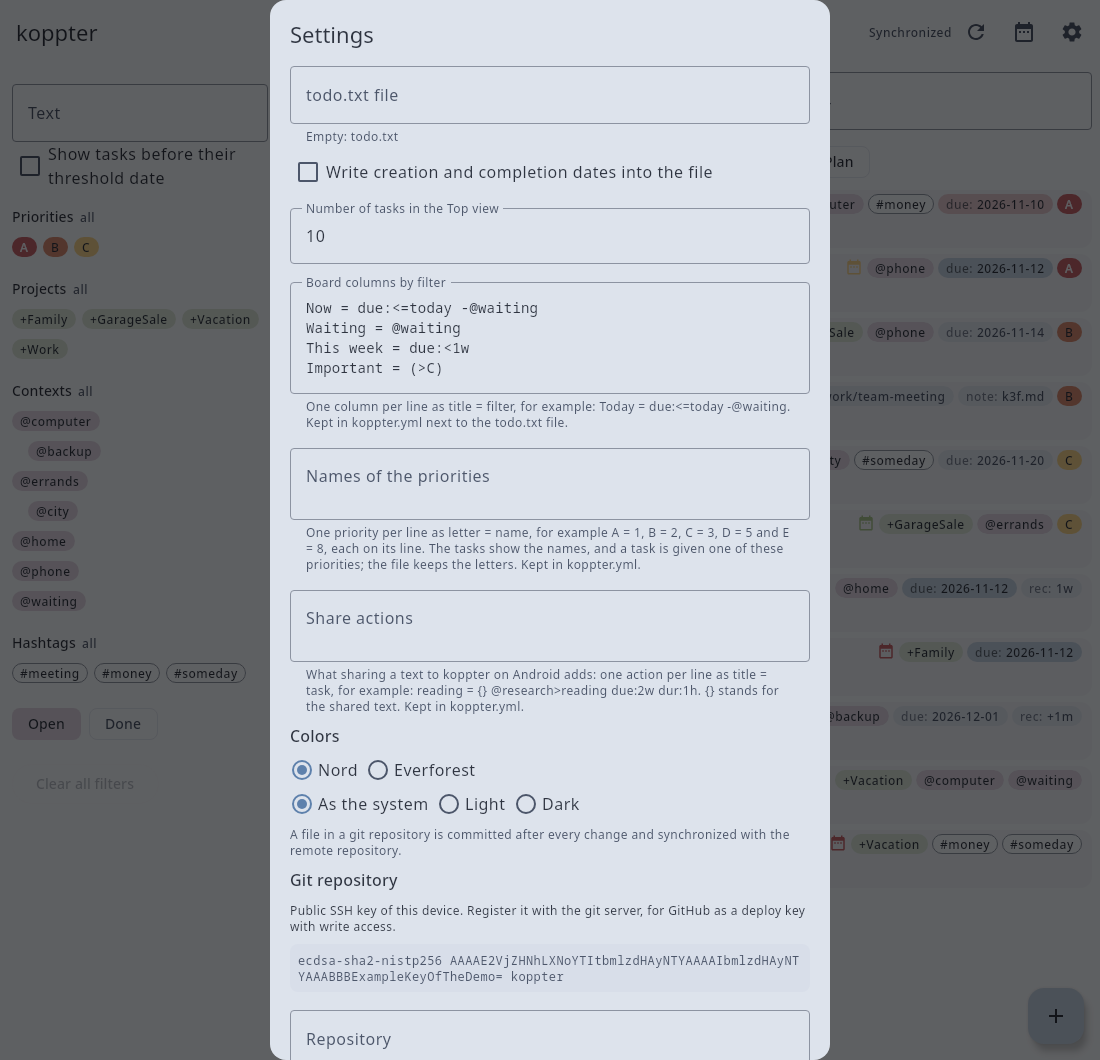
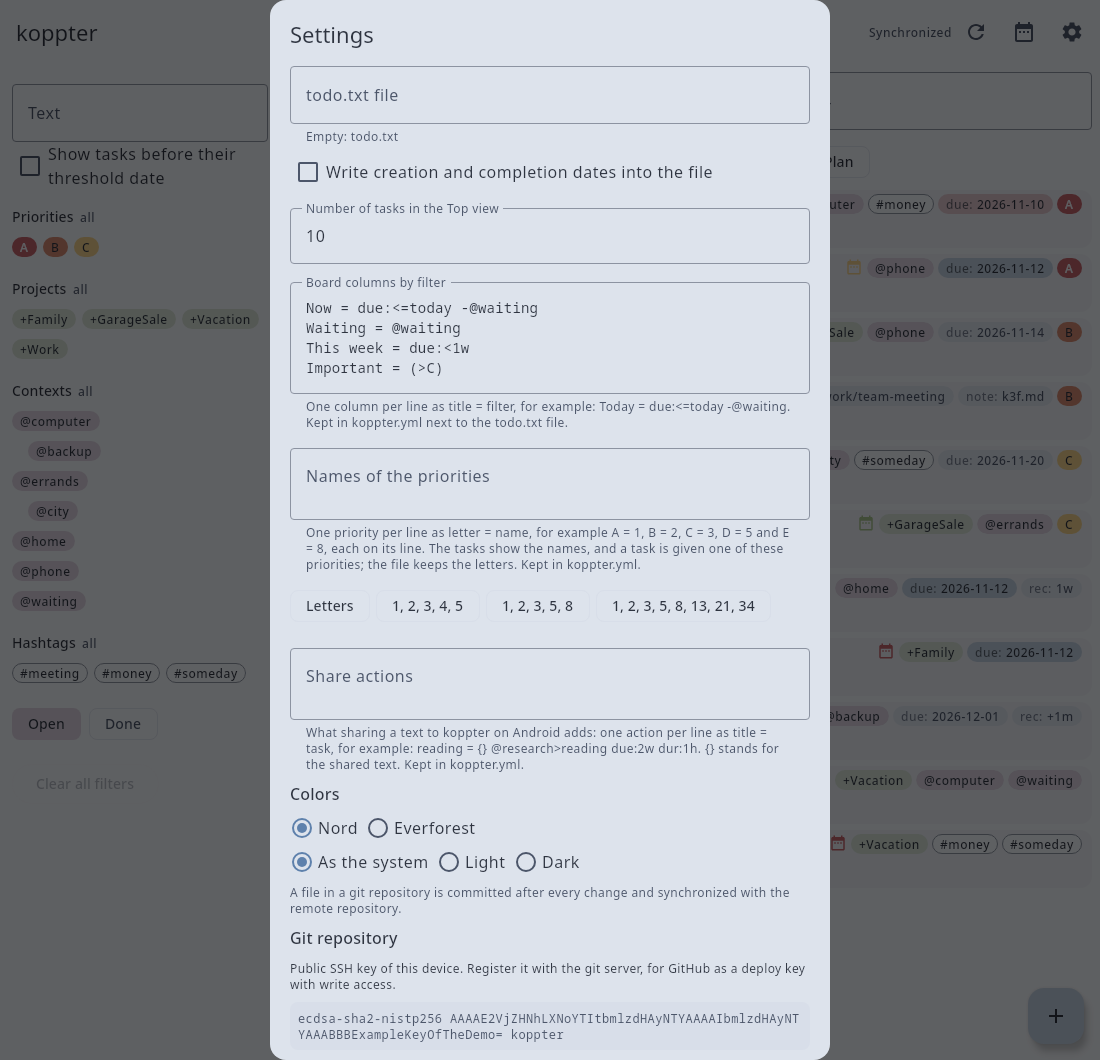
Offer scales for the priority names and accept names in filters
The settings fill in the names of the priorities at a click: letters, 1 to 5, or five or eight steps of the Fibonacci sequence.
A filter of a board column names a priority by its name or by its letter, so that a user of numbers does not have to translate there.

diff --git a/app/src/commonMain/kotlin/io/github/koppor/koppter/ui/SettingsDialog.kt b/app/src/commonMain/kotlin/io/github/koppor/koppter/ui/SettingsDialog.kt
@@ -2,6 +2,8 @@ package io.github.koppor.koppter.ui
 
 import androidx.compose.foundation.layout.Arrangement
 import androidx.compose.foundation.layout.Column
+import androidx.compose.foundation.layout.ExperimentalLayoutApi
+import androidx.compose.foundation.layout.FlowRow
 import androidx.compose.foundation.layout.Row
 import androidx.compose.foundation.layout.Spacer
 import androidx.compose.foundation.layout.fillMaxWidth
@@ -11,6 +13,7 @@ import androidx.compose.foundation.rememberScrollState
 import androidx.compose.foundation.text.selection.SelectionContainer
 import androidx.compose.foundation.verticalScroll
 import androidx.compose.foundation.selection.toggleable
+import androidx.compose.material3.AssistChip
 import androidx.compose.material3.Button
 import androidx.compose.material3.Checkbox
 import androidx.compose.material3.MaterialTheme
@@ -34,6 +37,7 @@ import androidx.compose.ui.unit.dp
 import io.github.koppor.koppter.storage.Appearance
 import io.github.koppor.koppter.storage.ColorTheme
 import io.github.koppor.koppter.storage.ConfigFile
+import io.github.koppor.koppter.todotxt.PriorityNames
 import io.github.koppor.koppter.storage.Settings
 import kotlinx.coroutines.launch
 
@@ -46,7 +50,16 @@ interface GitSetupActions {
     suspend fun clone(url: String): String
 }
 
+/** Scales offered for the names of the priorities: the letters of the format, numbers, and steps of the Fibonacci sequence. */
+private val PRIORITY_PRESETS = listOf(
+    emptyList(),
+    listOf("1", "2", "3", "4", "5"),
+    listOf("1", "2", "3", "5", "8"),
+    listOf("1", "2", "3", "5", "8", "13", "21", "34"),
+)
+
 // [impl->dsn~settings-dialog~1]
+@OptIn(ExperimentalLayoutApi::class)
 @Composable
 fun SettingsDialog(
     settings: Settings,
@@ -139,6 +152,15 @@ fun SettingsDialog(
                         minLines = 2,
                         modifier = Modifier.fillMaxWidth().testTag("settings-priorities"),
                     )
+                    FlowRow(horizontalArrangement = Arrangement.spacedBy(6.dp)) {
+                        PRIORITY_PRESETS.forEachIndexed { index, names ->
+                            AssistChip(
+                                onClick = { priorities = PriorityNames.lines(names) },
+                                label = { Text(if (names.isEmpty()) "Letters" else names.joinToString(", ")) },
+                                modifier = Modifier.testTag("settings-priorities-preset-$index"),
+                            )
+                        }
+                    }
                 }
                 // [impl->dsn~share-actions~1]
                 actions?.let { text ->

diff --git a/core/src/commonMain/kotlin/io/github/koppor/koppter/todotxt/PriorityNames.kt b/core/src/commonMain/kotlin/io/github/koppor/koppter/todotxt/PriorityNames.kt
@@ -16,11 +16,26 @@ data class PriorityNames(val names: Map<Char, String> = emptyMap()) {
     /** The typed line with a name in parentheses at its start replaced by the letter, so that `(5) Call` is a task with a priority. */
     fun toLetters(line: String): String {
         val name = line.takeIf { it.startsWith("(") }?.substringBefore(") ", "")?.drop(1) ?: return line
-        val letter = names.entries.firstOrNull { it.value == name }?.key ?: return line
+        val letter = letter(name) ?: return line
         return "($letter)" + line.substring(name.length + 2)
     }
 
+    /**
+     * The filter expression with the names of priorities replaced by their letters, so that `(>3)` is read as `(>C)`.
+     * A term with a letter stays as it is, unless the letter is the name of another priority.
+     */
+    fun toLettersInFilter(expression: String): String = expression.split(' ').joinToString(" ") { word ->
+        FILTER_TERM.matchEntire(word)?.let { term -> letter(term.groupValues[2])?.let { term.groupValues[1] + it + ")" } } ?: word
+    }
+
+    private fun letter(name: String): Char? = names.entries.firstOrNull { it.value == name }?.key
+
     companion object {
+        private val FILTER_TERM = Regex("^(-?\\((?:<=|>=|<|>|=)?)(.+)\\)$")
+
+        /** The text that names the priorities from A on by the given names, one per line as `letter = name`. */
+        fun lines(names: List<String>): String = names.mapIndexed { index, name -> "${'A' + index} = $name" }.joinToString("\n")
+
         /** Reads pairs of letter and name; a pair whose letter is not one of A to Z or whose name is empty is left out. */
         fun of(entries: List<Pair<String, String>>) = PriorityNames(
             entries.mapNotNull { (letter, name) -> letter.singleOrNull()?.takeIf { it in 'A'..'Z' && name.isNotEmpty() }?.let { it to name } }.toMap(),

diff --git a/app/src/commonMain/kotlin/io/github/koppor/koppter/ui/TodoController.kt b/app/src/commonMain/kotlin/io/github/koppor/koppter/ui/TodoController.kt
@@ -116,11 +116,15 @@ class TodoController(
     /** Gives a task of the inbox its context. */
     fun assignContext(entry: Entry, context: String) = replace(entry, entry.task.edit(contexts = listOf(context)))
 
-    /** The columns the user defined. */
-    val boardColumns: List<BoardColumn> get() = ConfigFile.boardColumns(config.orEmpty())
+    /** The columns the user defined, as the configuration states them. */
+    private val definedColumns: List<BoardColumn> get() = ConfigFile.boardColumns(config.orEmpty())
+
+    /** The columns the user defined; their filters name a priority by its letter, also where the configuration uses its name. */
+    // [impl->dsn~priority-names~1]
+    val boardColumns: List<BoardColumn> get() = definedColumns.map { it.copy(expression = priorityNames.toLettersInFilter(it.expression)) }
 
     /** The columns the user defined, one per line as `title = filter expression`; `null` if the storage cannot keep them. */
-    val boardColumnsText: String? get() = config?.let { boardColumns.joinToString("\n") { "${it.title} = ${it.expression}" } }
+    val boardColumnsText: String? get() = config?.let { definedColumns.joinToString("\n") { "${it.title} = ${it.expression}" } }
 
     /** The state of the synchronization; `null` if the storage does not synchronize. */
     var syncStatus by mutableStateOf<SyncStatus?>(null)
@@ -205,7 +209,7 @@ class TodoController(
     /** Replaces the columns the user defined by those in the text, one per line as `title = filter expression`. */
     fun updateBoardColumns(text: String) {
         val columns = parseBoardColumns(text)
-        if (columns == boardColumns) return
+        if (columns == definedColumns) return
         writeConfig(ConfigFile.withBoardColumns(config.orEmpty(), columns), "Edit board columns")
     }
 

diff --git a/app/src/desktopTest/kotlin/io/github/koppor/koppter/ui/AppTest.kt b/app/src/desktopTest/kotlin/io/github/koppor/koppter/ui/AppTest.kt
@@ -362,10 +362,21 @@ class AppTest {
     // [utest->dsn~priority-names~1]
     @Test
     fun prioritiesAreShownAndTypedWithTheNamesFromTheSettingsAndTheFileKeepsTheLetters() = runComposeUiTest {
-        start()
+        val controller = TodoController(Settings(), { storage }, today = { LocalDate(2026, 11, 12) })
+        setContent { App(controller, "todo.txt") }
         onNodeWithTag("open-settings").performClick()
-        onNodeWithTag("settings-priorities").performScrollTo().performTextInput("A = 1\nB = 2\nC = 3\nD = 5\nE = 8")
+        onNodeWithTag("settings-board-columns").performScrollTo().performTextInput("High = (>3)\nTop = (A)")
+        // The third scale offered: the first steps of the Fibonacci sequence.
+        onNodeWithTag("settings-priorities-preset-2").performScrollTo().performClick()
+        onNodeWithTag("settings-priorities").assertTextContains("A = 1\nB = 2\nC = 3\nD = 5\nE = 8")
         onNodeWithTag("settings-save").performScrollTo().performClick()
+        // A filter names a priority by its name or by its letter; the settings keep what was typed.
+        assertEquals("High = (>3)\nTop = (A)", controller.boardColumnsText)
+        controller.groupKey = null
+        assertEquals(
+            listOf("High" to listOf("Thank Mom", "Schedule pickup"), "Top" to listOf("Thank Mom")),
+            controller.groups.map { group -> group.title to group.entries.map { it.task.description } },
+        )
         assertEquals(true, storage.companions.getValue("koppter.yml").contains("priorities:\n  \"A\": \"1\""))
 
         onNodeWithTag("quick-add").performTextInput("(5) Buy milk @shop")

diff --git a/core/src/commonTest/kotlin/io/github/koppor/koppter/todotxt/PriorityNamesTest.kt b/core/src/commonTest/kotlin/io/github/koppor/koppter/todotxt/PriorityNamesTest.kt
@@ -24,4 +24,20 @@ class PriorityNamesTest {
         assertEquals("(5)Call", fibonacci.toLetters("(5)Call"))
         assertEquals("Call (5) times", fibonacci.toLetters("Call (5) times"))
     }
+
+    // [utest->dsn~priority-names~1]
+    @Test
+    fun aFilterNamesAPriorityByItsNameOrByItsLetter() {
+        assertEquals("(>C) -(E) @phone (B) due:<1w", fibonacci.toLettersInFilter("(>3) -(8) @phone (B) due:<1w"))
+        assertEquals("(<=D)", fibonacci.toLettersInFilter("(<=5)"))
+        assertEquals("(13) (5", fibonacci.toLettersInFilter("(13) (5"))
+        val highFirst = Query.parse(fibonacci.toLettersInFilter("(>3)"))
+        assertEquals(listOf(true, true, false), listOf("(A) a", "(B) b", "(C) c").map { highFirst.matches(Task.parse(it), kotlinx.datetime.LocalDate(2026, 11, 13)) })
+    }
+
+    // [utest->dsn~priority-names~1]
+    @Test
+    fun aListOfNamesBecomesTheLinesOfTheSettings() {
+        assertEquals("A = 1\nB = 2\nC = 3", PriorityNames.lines(listOf("1", "2", "3")))
+    }
 }

diff --git a/README.md b/README.md
@@ -243,6 +243,8 @@ D = 5
 E = 8
 ```
 
+The buttons below the field fill in a scale: the letters, the numbers 1 to 5, or five or eight steps of the Fibonacci sequence.
+
 * The labels of the tasks, the filter panel, the board by priority and the edit dialog then show 1, 2, 3, 5 and 8.
 * The edit dialog offers the priorities that have a name, here five; without names, it offers A to F.
 * A line typed above the list may start with a name: `(5) Call the dentist` is written as `(D) Call the dentist`.
@@ -250,7 +252,9 @@ E = 8
 * The order is that of the letters: the name of A is the highest priority, so `A = 8` to `E = 1` makes 8 the highest.
 
 The names are kept in `koppter.yml` and are therefore the same on every device that synchronizes the file.
-The filters of board columns, such as `(>C)`, the line of the edit dialog and `ice_recur.txt` use the letters.
+A filter of a board column names a priority by its name or by its letter: with the names above, `(>3)` and `(>C)` both select the priorities 1 and 2.
+The comparison reads *a higher priority than*, not *a greater number than*.
+The line of the edit dialog and `ice_recur.txt` use the letters.
 
 ## Overview of the contexts
 
@@ -458,7 +462,7 @@ Important = (>C)
 | Term | Matches a task |
 | --- | --- |
 | `+project`, `@context`, `#hashtag` | with this project, context or hashtag |
-| `(A)`, `(>B)`, `(<=C)` | with this priority, a higher one, this or a lower one |
+| `(A)`, `(>B)`, `(<=C)` | with this priority, a higher one, this or a lower one; a priority is named by its letter or by its [name](#names-for-priorities) |
 | `due:today`, `due:<1w`, `t:>=2026-12-01`, `status:doing` | whose tag has this value or compares so to it; dates are ISO dates, `today`, `tomorrow`, `yesterday` or an interval from today |
 | `-term` | that does not match the term |
 | any other word | whose line contains it |

diff --git a/docs/requirements/ui.md b/docs/requirements/ui.md
@@ -55,7 +55,8 @@ Needs: dsn
 `req~priority-names~1`
 
 The user gives priorities names, such as the numbers 1, 2, 3, 5 and 8 for A to E.
-The application shows the names where it shows a priority, offers the named priorities for a task, and accepts a name where a line is typed.
+The application shows the names where it shows a priority, offers the named priorities for a task, and accepts a name where a line or a filter is typed.
+The settings offer scales to choose with one click: numbers and steps of the Fibonacci sequence.
 The file keeps the letters of the todo.txt format.
 
 Covers:
@@ -258,6 +259,8 @@ The key `priorities` of `koppter.yml` maps the letter of a priority to its name;
 `PriorityNames` gives the name of a priority, which is its letter if it has none, and the priorities to offer: those with a name, or A to F without names.
 The label of a priority, the filter panel, the titles of the board columns by priority and the edit dialog show the name.
 `TodoController.add` replaces a name in parentheses at the start of a typed line by its letter.
+`TodoController.boardColumns` does the same for the priority terms of the filters, so that a filter names a priority by its name or by its letter, and the settings keep the filter as it was typed.
+Below the field for the names, the settings dialog has one button per scale, which fills the field.
 
 Covers:
 

diff --git a/CHANGELOG.md b/CHANGELOG.md
@@ -9,7 +9,7 @@ and this project adheres to [Calendar Versioning](https://calver.org/) with the 
 
 ### Added
 
-- Names for priorities, such as 1, 2, 3, 5 and 8 instead of A to E: the settings take them, the application shows and offers them, and the file keeps the letters.
+- Names for priorities, such as 1, 2, 3, 5 and 8 instead of A to E: the settings take them or fill in a scale at a click, the application shows and offers them, filters accept them, and the file keeps the letters.
 - Source of each extension of the todo.txt format in the README.
 - Comparison with other applications for tasks in plain text files in `docs/related-work.md`, starting with Beorg.
 

diff --git a/docs/decisions/0024-names-for-priorities-kept-in-the-configuration-file.md b/docs/decisions/0024-names-for-priorities-kept-in-the-configuration-file.md
@@ -34,7 +34,7 @@ The order of the priorities stays that of the letters: the name of `A` is the hi
 
 * Good, because the names also limit the choice: the edit dialog offers the priorities that have a name.
 * Good, because the names are synchronized with the tasks and are the same on every device.
-* Bad, because another program, a filter of a board column and the line of the edit dialog show the letters.
+* Bad, because another program and the line of the edit dialog show the letters.
 * Bad, because a file chosen through the document picker of Android has no configuration file and therefore no names.
 
 ## Pros and Cons of the Options
